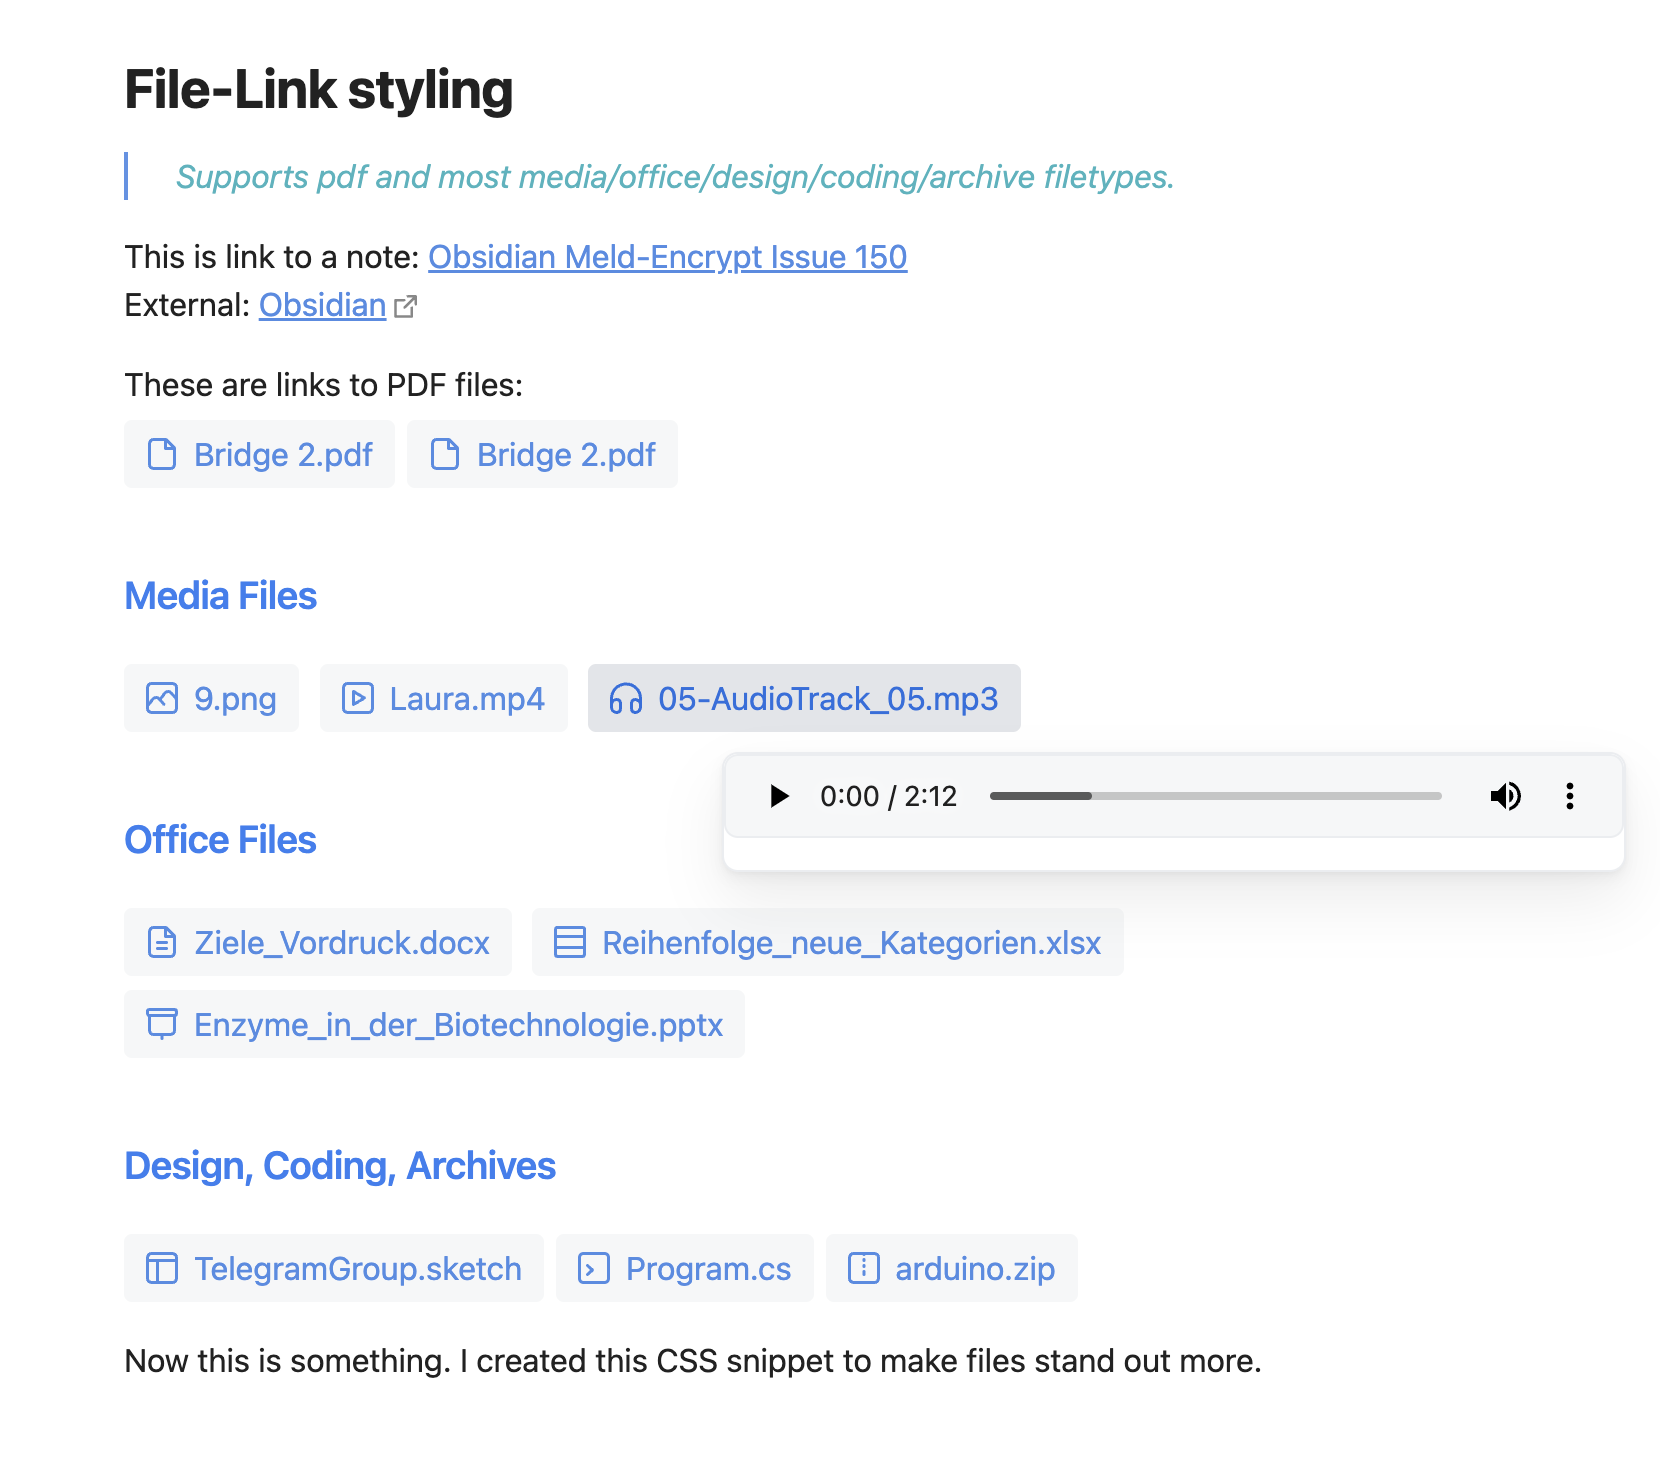
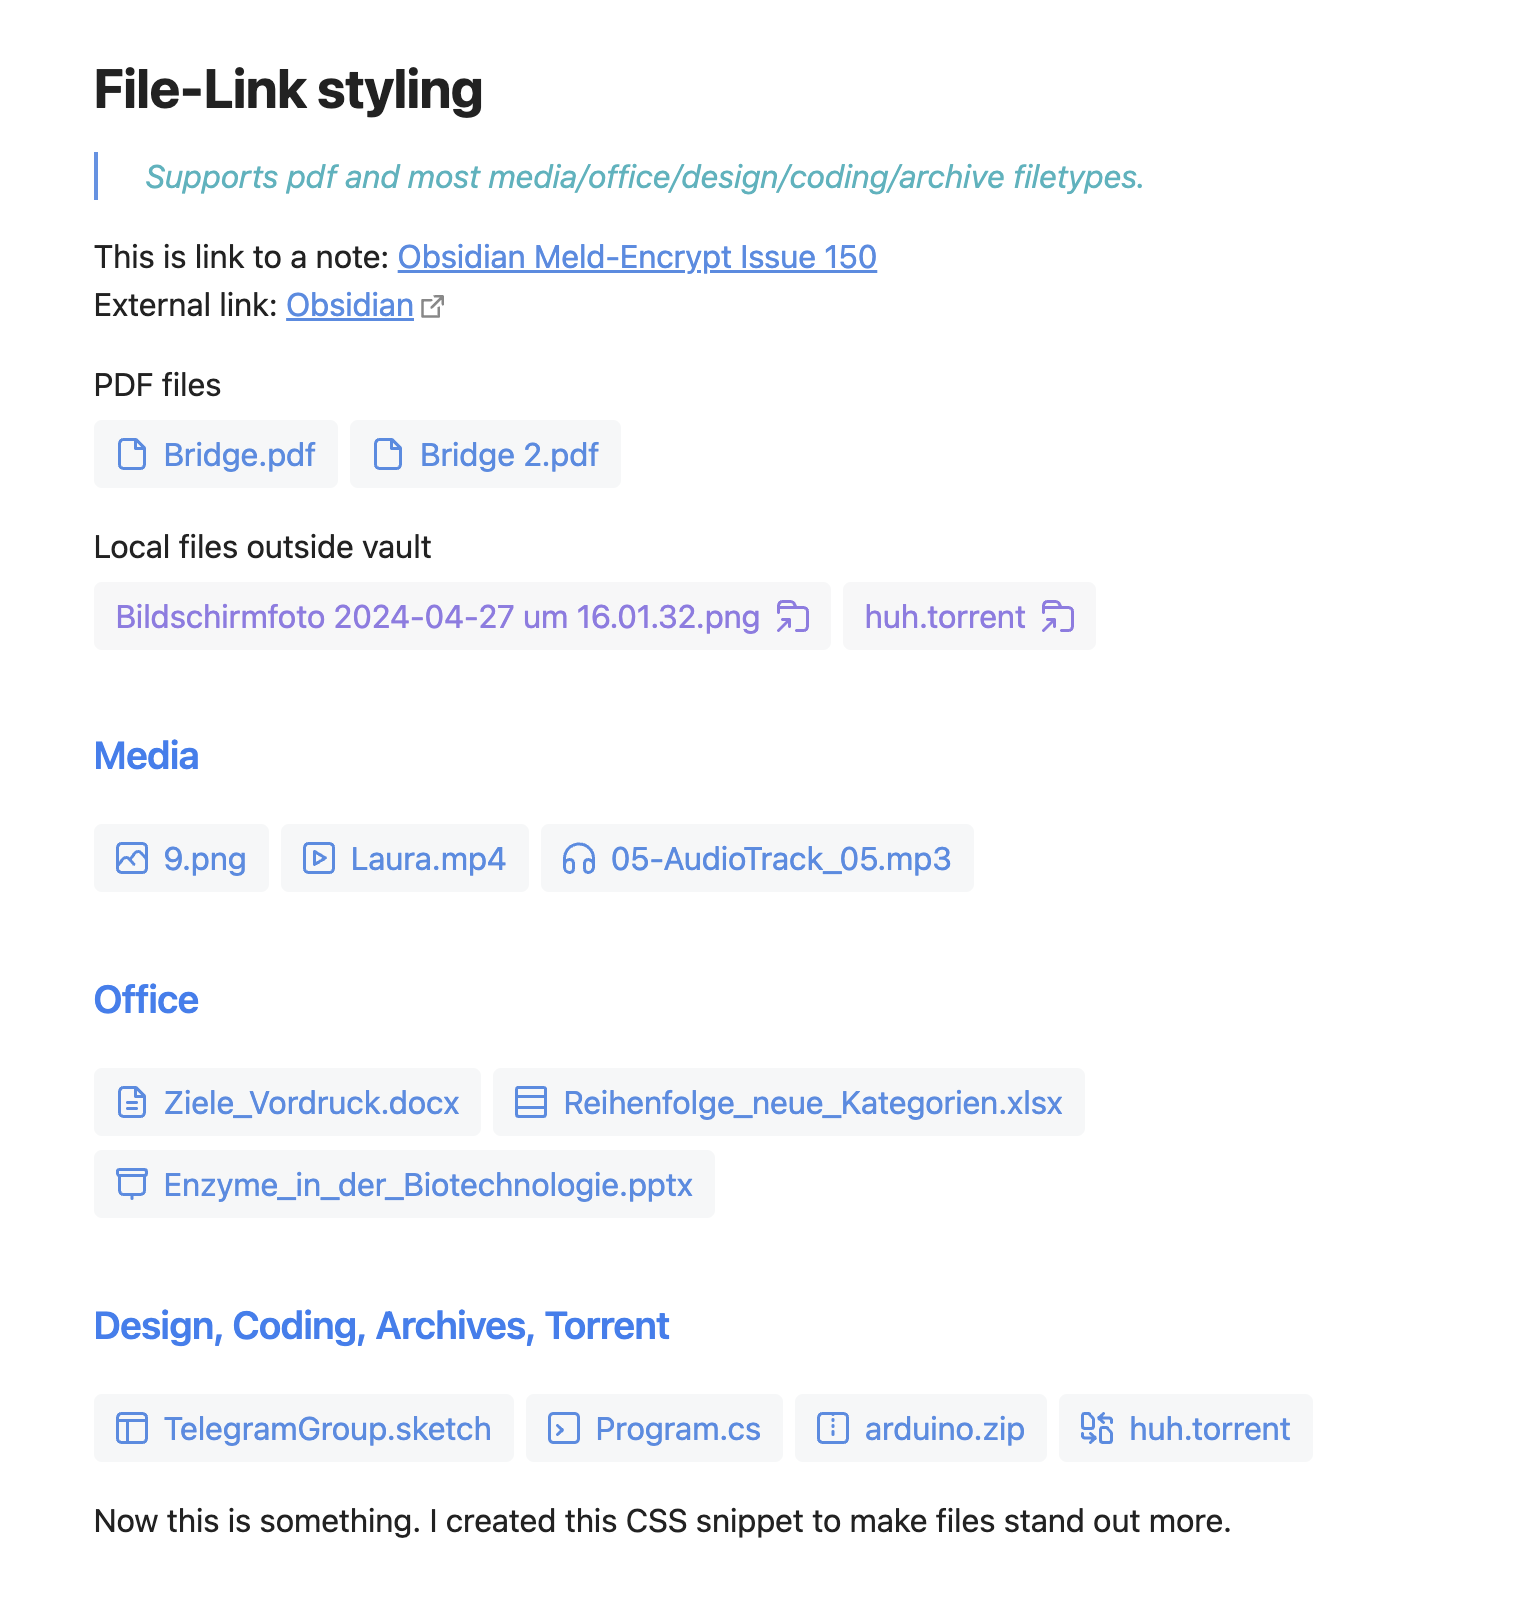
Updated readme and preview

diff --git a/README.md b/README.md
@@ -61,6 +61,14 @@ Due to limitations in writing selectors for anchors based on their href property
 - **Design Files**
   - Extensions: `psd`, `ai`, `sketch`, `eps`, `indd`, `xcf`, `dwg`, `svg`, `fig`, `cdr`, `afdesign`, `stp`, `3ds`, `iges`, `max`
   - [Icon Source](https://iconic.app/dashboard/)
+
+- **Torrent Files**
+	- Extensions: `torrent`
+	- [Pro Icon Source](https://iconic.app/file-share/)
+
+- **External (Local Filesystem) Files**
+	- Extensions: *
+	- [Pro Icon Source](https://iconic.app/folder-share/)
  
 ## Thank you
 [@sailKiteV](https://github.com/sailKiteV) in Obsidian Discord (https://discord.gg/obsidianmd) for helping me out and providing a first SCSS draft of my initial CSS version.
